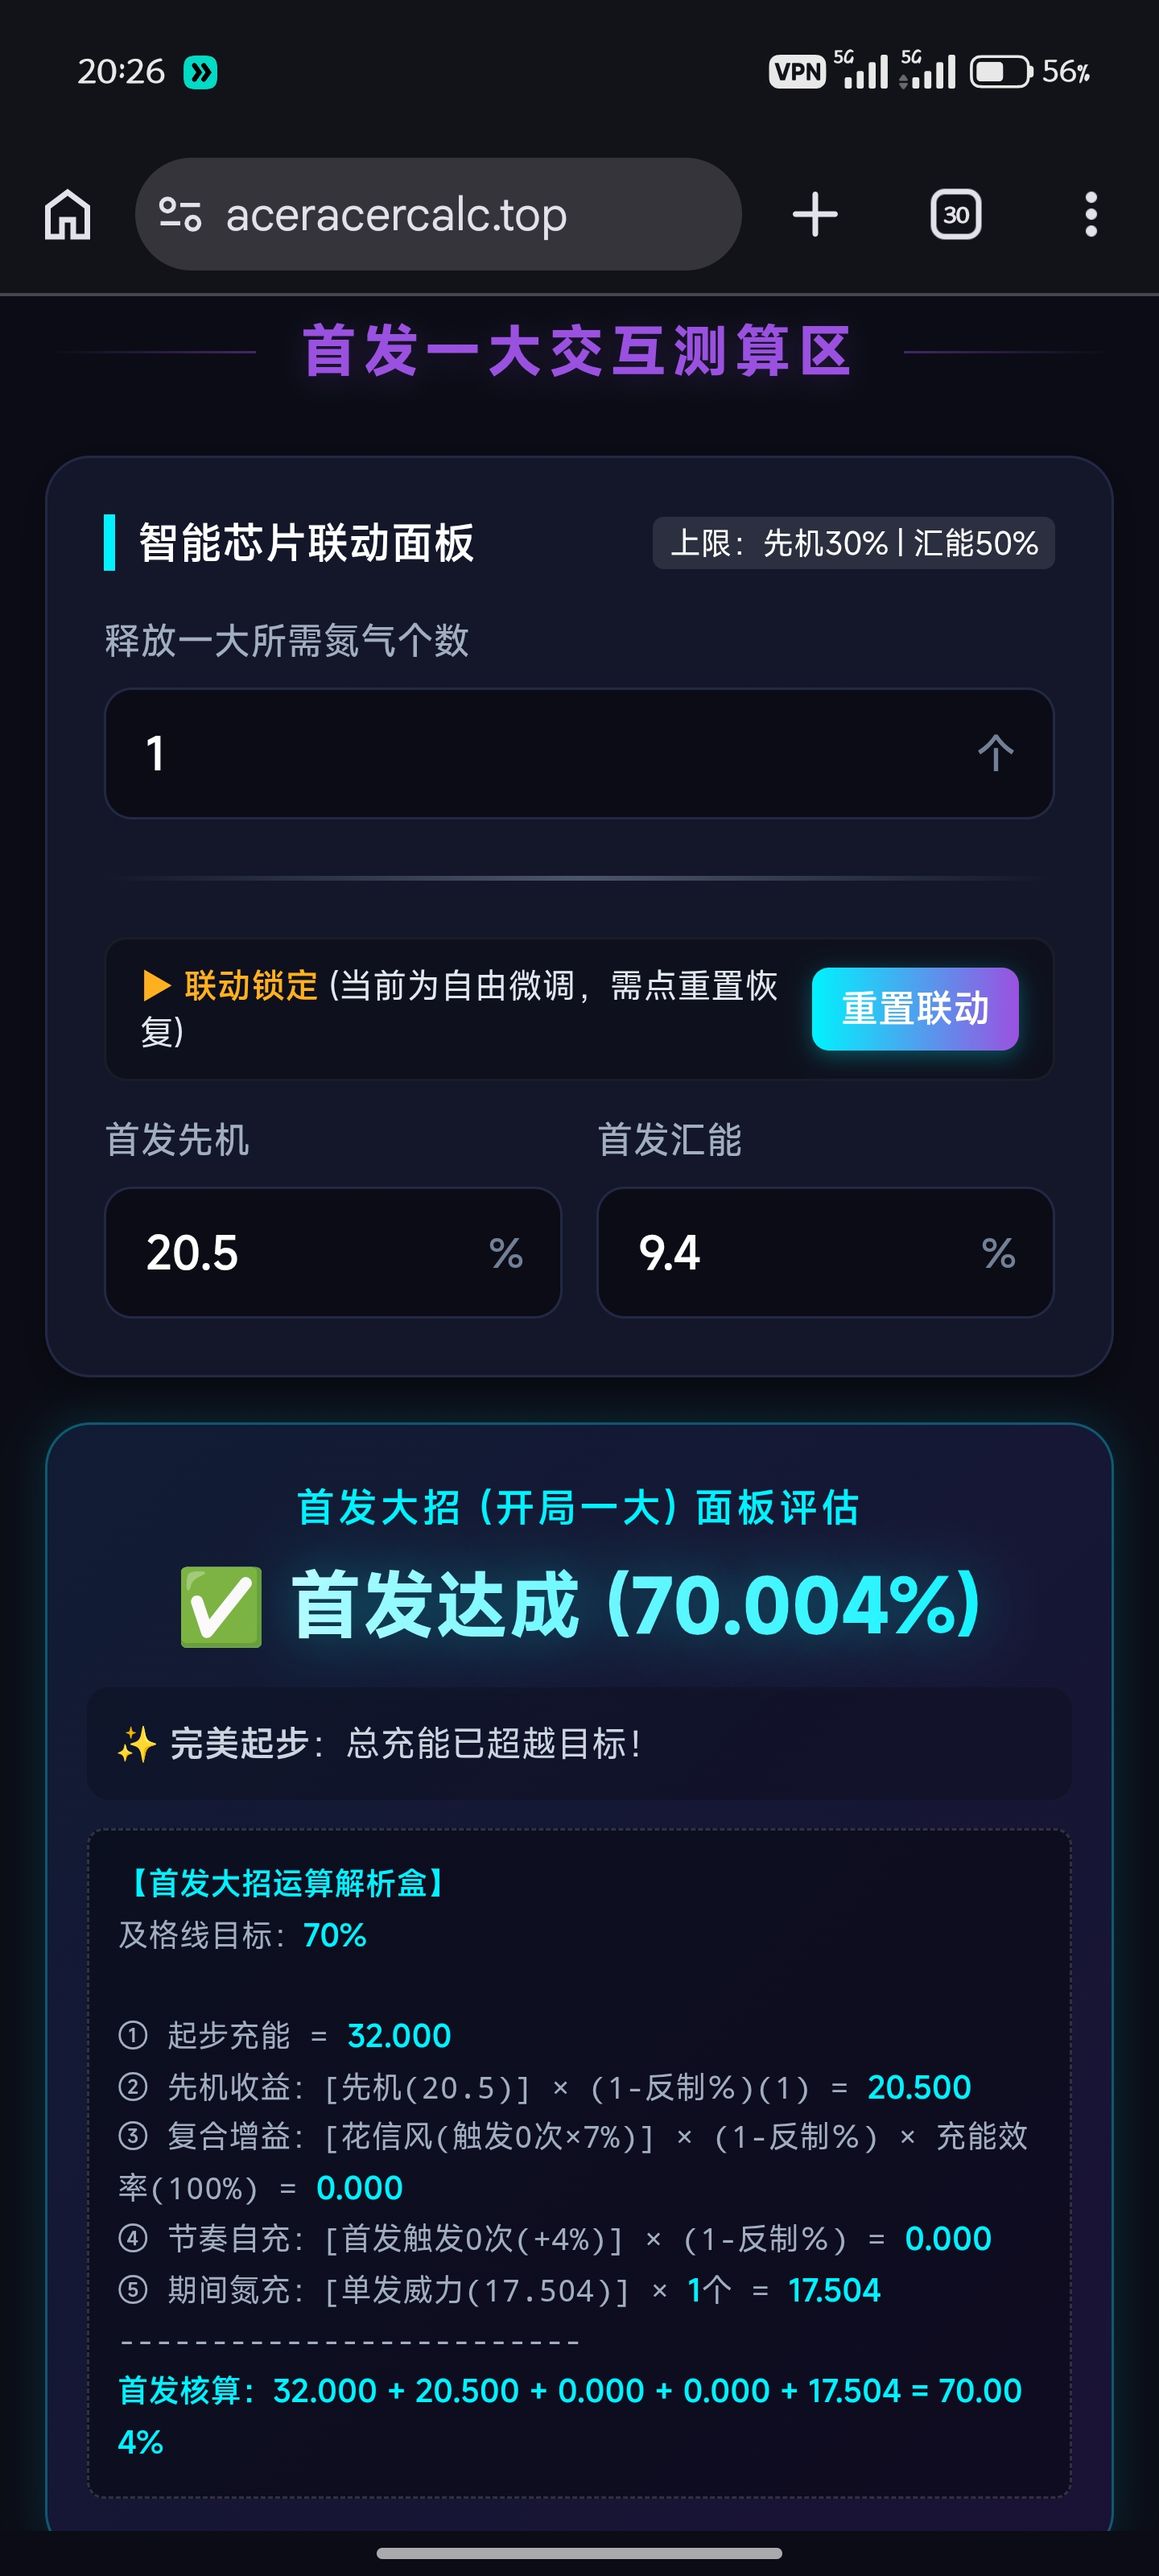
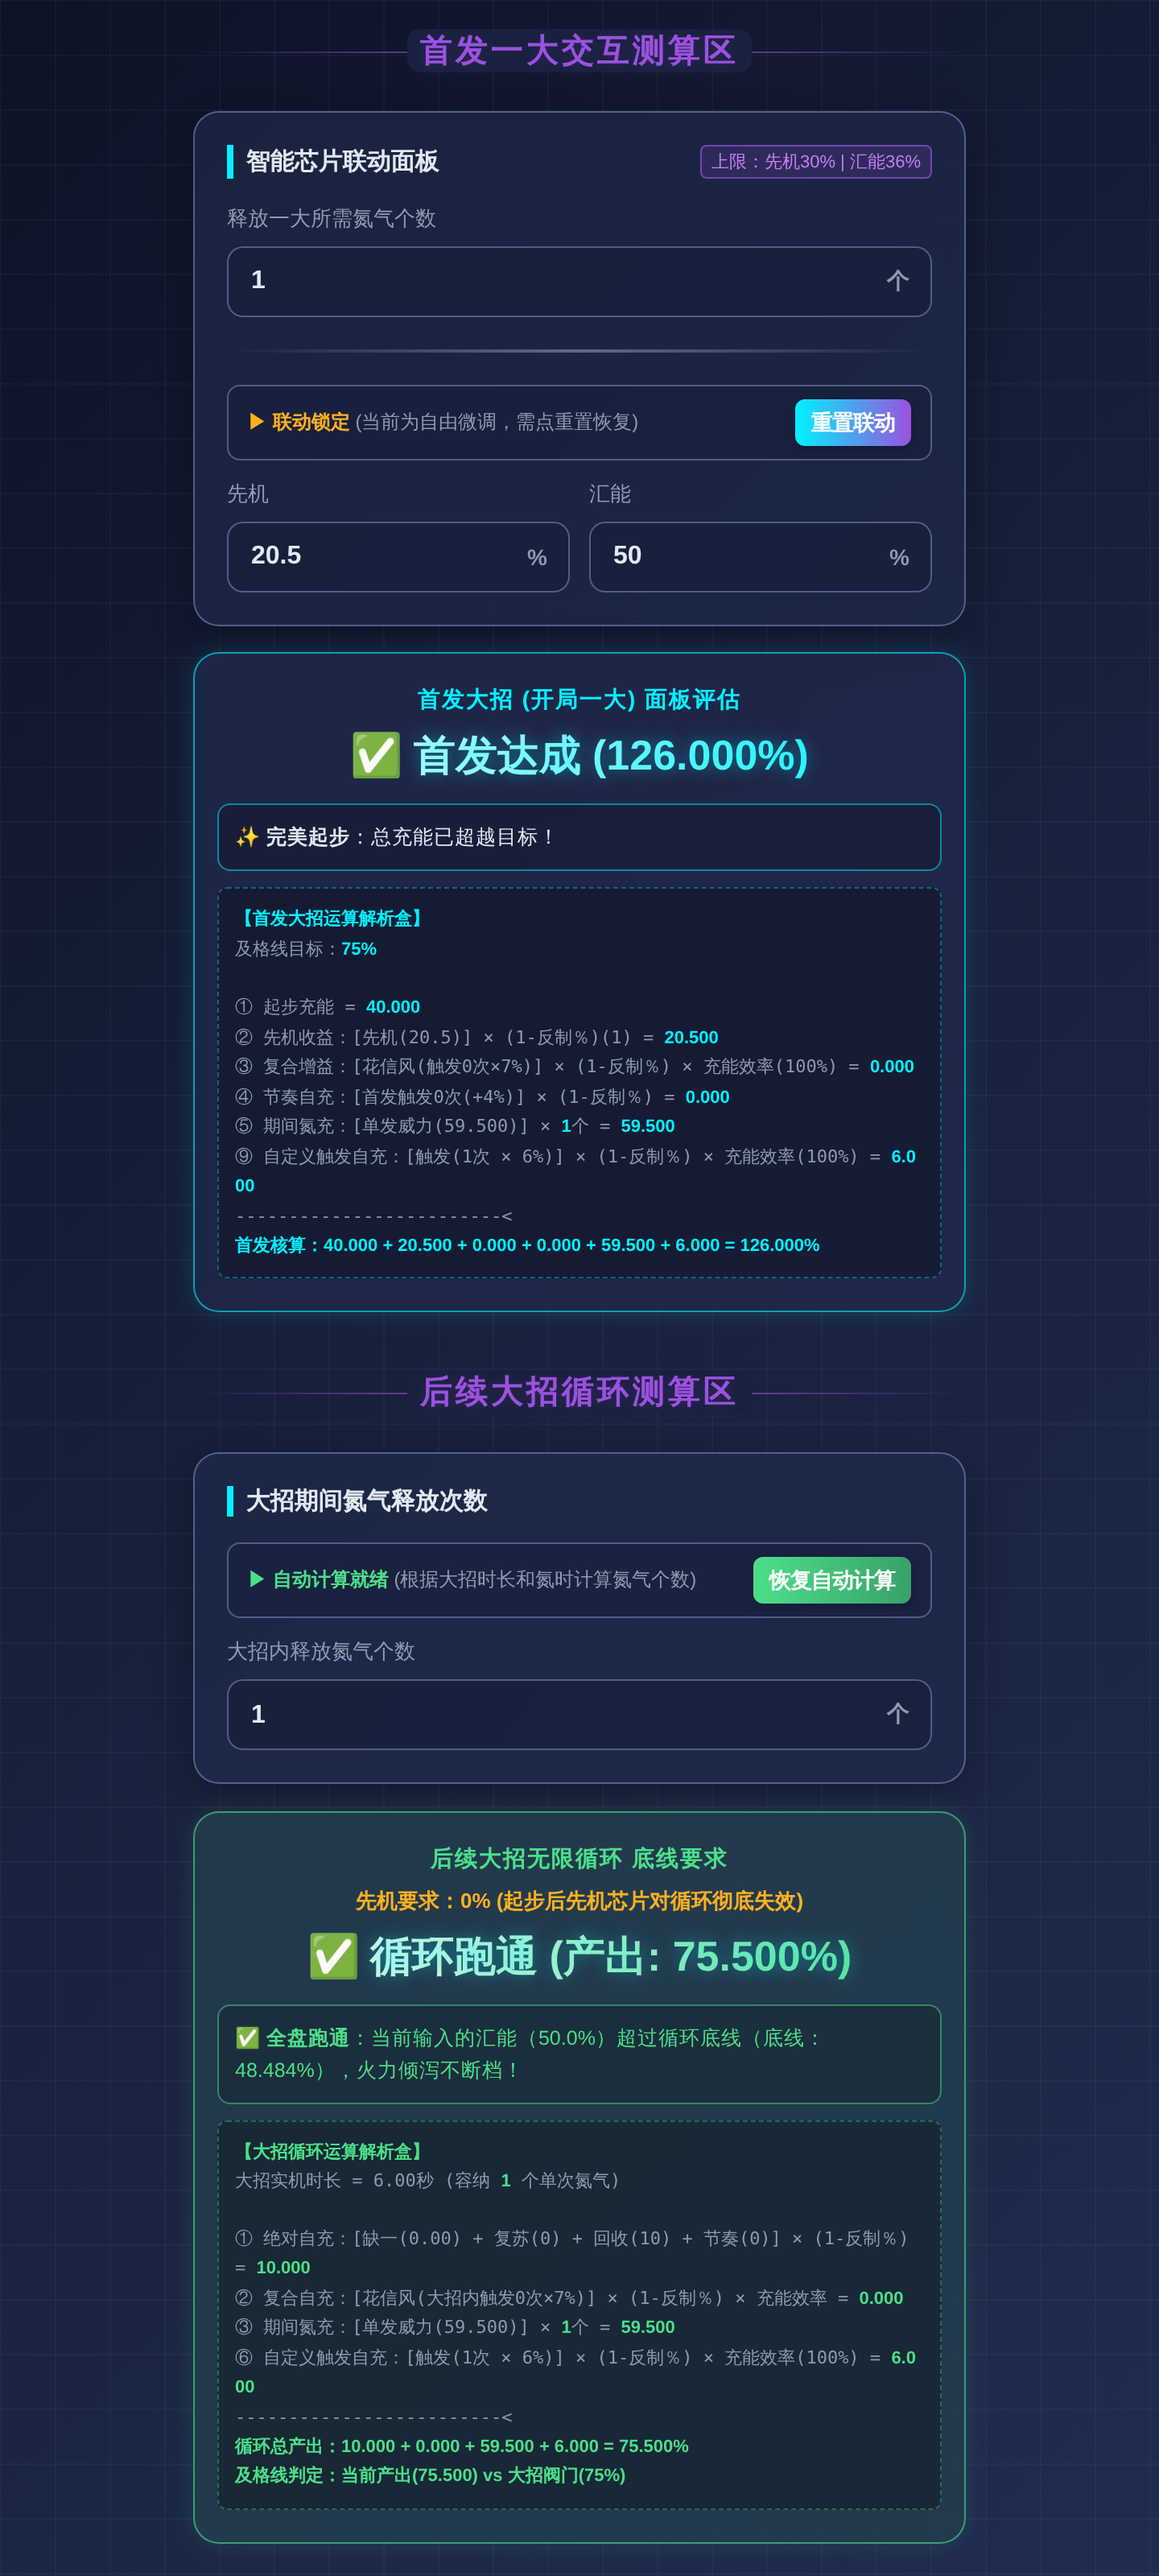
chore: 重新渲染 PWA 截图（新版界面 · 布加迪飞火流星演示状态），附截图脚本
- 6 张截图（桌面 2560×1516 / 移动 1440×3200）按新版界面重拍
- 结果区构图修正：芯片面板 + 首发/循环结果卡完整入画，不再截断
- 新增 scripts/render-screenshots.py（可重跑，支持 --url/--out）

diff --git a/scripts/render-screenshots.py b/scripts/render-screenshots.py
@@ -1,0 +1,184 @@
+#!/usr/bin/env python3
+# -*- coding: utf-8 -*-
+"""重新渲染 PWA 截图（manifest.json / sw.js 引用的那 6 张）。
+
+用法：
+    python3 scripts/render-screenshots.py                 # 默认截线上 https://aceracercalc.top/
+    python3 scripts/render-screenshots.py --url <地址>     # 换地址（如本地 index.html 的 file:// 或 http 服务）
+    python3 scripts/render-screenshots.py --out <目录>     # 换输出目录（默认项目根目录）
+
+输出（与 manifest.json 中的 sizes 声明一致）：
+    screenshot-desktop-1.png ~ 3.png   2560×1516（1280×758 视口 @2x）
+    screenshot-mobile-1.png  ~ 3.png   1440×3200（720×1600 视口 @2x）
+
+截图状态：布加迪 Bolide（飞火流星）· 对手反制 0% · 先机 20.5 / 汇能 50
+          · 释放一大所需氮气 1 个 · 勾选「能源回收」赋能 → 首发✅ 循环✅
+
+依赖：python3 + playwright（chromium）
+"""
+import argparse
+import os
+import sys
+
+from playwright.sync_api import sync_playwright
+
+DEFAULT_URL = "https://aceracercalc.top/"
+CAR_NAME = "布加迪 Bolide"
+
+# 把页面调成「双轨达成」的展示状态
+SETUP_JS = """() => {
+  function setVal(id, v) {
+    const el = document.getElementById(id);
+    const setter = Object.getOwnPropertyDescriptor(el.constructor.prototype, 'value').set;
+    setter.call(el, String(v));
+    el.dispatchEvent(new Event('input', {bubbles: true}));
+  }
+  function check(id, on) {
+    const el = document.getElementById(id);
+    if (el && el.checked !== on) { el.checked = on; el.dispatchEvent(new Event('change', {bubbles: true})); }
+  }
+  const cr = document.getElementById('counterRange');
+  if (cr) { cr.value = '0'; if (window.updateCounterSlider) updateCounterSlider(); }
+  setVal('inputXianji', 20.5);
+  setVal('inputHuineng', 50);
+  setVal('inputFirstNitroCount', 1);
+  check('chk_huishou', true);          // 能源回收（仅循环生效 +10%）
+  if (window.calculate) calculate();
+  return true;
+}"""
+
+# 截图前清掉环境噪音：性能提示 toast / performance-mode class
+CLEAN_JS = """() => {
+  document.body.classList.remove('performance-mode');
+  const t = document.getElementById('copyToast');
+  if (t) t.className = 'copy-toast';
+}"""
+
+# 各区块的定位锚点（文字 → CSS 类名过滤）
+POS_JS = """(marks) => {
+  const out = {};
+  for (const m of marks) {
+    const els = [...document.querySelectorAll('div,span,h2,h3')].filter(e =>
+      (e.textContent || '').includes(m) && (e.className || '').toString().match(/divider|card-title|result-title/));
+    out[m] = els.length ? Math.round(els[0].getBoundingClientRect().top + window.scrollY) : null;
+  }
+  out['__scrollH'] = document.body.scrollHeight;
+  return out;
+}"""
+
+# 结果卡的几何信息（用于把「计算结果」完整框进画面、不被截断）
+CARDS_JS = """() => {
+  const g = id => { const e = document.getElementById(id); if (!e) return null;
+    const r = e.getBoundingClientRect();
+    return {top: Math.round(r.top + window.scrollY), bot: Math.round(r.bottom + window.scrollY)}; };
+  const byTitle = t => { const e = [...document.querySelectorAll('.card-title')].find(x => x.textContent.includes(t));
+    if (!e) return null; const r = e.closest('.card').getBoundingClientRect();
+    return {top: Math.round(r.top + window.scrollY), bot: Math.round(r.bottom + window.scrollY)}; };
+  return { first: g('resultCardFirst'), loop: g('resultCardLoop'),
+           chip: byTitle('智能芯片'), nitro: byTitle('大招期间氮气'),
+           vh: window.innerHeight, scrollH: document.body.scrollHeight };
+}"""
+
+
+def framed_y(cards, keys, vh, scroll_h, margin=20):
+    """把 cards[keys] 的并集区间尽量完整地框进视口。
+    策略：优先底部对齐（上方少留白）；若区间比视口还高则居中。顶部永不被切。"""
+    tops, bots = [], []
+    for k in keys:
+        c = cards.get(k)
+        if c:
+            tops.append(c["top"]); bots.append(c["bot"])
+    if not tops:
+        return None
+    top, bot = min(tops), max(bots)
+    h = bot - top
+    if h > vh - 2 * margin:
+        y = round(top - max(0, (vh - h) / 2))
+    else:
+        y = min(bot + margin - vh, top - margin)   # 底部对齐，且顶部留 margin
+    return int(max(0, min(y, scroll_h - vh)))
+
+
+def prepare(pg, url):
+    """打开页面 → 关教程 → 选车 → 填参数 → 勾赋能。"""
+    pg.goto(url, wait_until="networkidle", timeout=90000)
+    pg.wait_for_timeout(2800)
+    try:
+        pg.click("#closeTutorialBtn", timeout=2500)
+        pg.wait_for_timeout(400)
+    except Exception:
+        pass
+    pg.click("#carListBtn")
+    pg.wait_for_timeout(900)
+    pg.click(f"text={CAR_NAME}", timeout=8000)
+    pg.wait_for_timeout(1800)
+    pg.evaluate(SETUP_JS)
+    pg.wait_for_timeout(1000)
+
+
+def shoot(pg, y, path):
+    """滚到 y 并截图，截图前清环境噪音。"""
+    pg.evaluate(CLEAN_JS)
+    pg.evaluate(f"window.scrollTo(0, {int(y)})")
+    pg.wait_for_timeout(700)
+    pg.evaluate(CLEAN_JS)
+    pg.screenshot(path=path)
+    print(f"  写出 {path}  (y={int(y)})")
+
+
+def main():
+    ap = argparse.ArgumentParser()
+    ap.add_argument("--url", default=DEFAULT_URL)
+    ap.add_argument("--out", default=os.path.dirname(os.path.dirname(os.path.abspath(__file__))))
+    a = ap.parse_args()
+    out = a.out
+    os.makedirs(out, exist_ok=True)
+
+    with sync_playwright() as p:
+        b = p.chromium.launch()
+
+        # ── 桌面 2560×1516 ────────────────────────────────────────────
+        ctx = b.new_context(viewport={"width": 1280, "height": 758}, device_scale_factor=2,
+                            locale="zh-CN")
+        pg = ctx.new_page()
+        prepare(pg, a.url)
+        pos = pg.evaluate(POS_JS, ["基础属性及赋能调整区"])
+        cards = pg.evaluate(CARDS_JS)
+        print("桌面锚点:", pos, "| 卡片:", cards)
+        # 1 顶部：标题 + 选车 + 车辆信息
+        shoot(pg, 0, f"{out}/screenshot-desktop-1.png")
+        # 2 参数区：左列核心参数/氮气规格 + 右列七大赋能矩阵
+        shoot(pg, max(0, (pos["基础属性及赋能调整区"] or 700) - 60), f"{out}/screenshot-desktop-2.png")
+        # 3 结果区：芯片面板 + 首发/循环两张结果卡完整入画
+        y3 = framed_y(cards, ["chip", "nitro", "first", "loop"], cards["vh"], cards["scrollH"])
+        if y3 is None:
+            y3 = max(0, 2000)
+        shoot(pg, y3, f"{out}/screenshot-desktop-3.png")
+        ctx.close()
+
+        # ── 移动 1440×3200 ────────────────────────────────────────────
+        ctx2 = b.new_context(viewport={"width": 720, "height": 1600}, device_scale_factor=2,
+                             locale="zh-CN", is_mobile=True, has_touch=True)
+        pg2 = ctx2.new_page()
+        prepare(pg2, a.url)
+        cards2 = pg2.evaluate(CARDS_JS)
+        print("移动卡片:", cards2)
+        # 1 顶部
+        shoot(pg2, 0, f"{out}/screenshot-mobile-1.png")
+        # 2 结果区：芯片面板 + 首发/循环两张结果卡完整入画
+        y2 = framed_y(cards2, ["chip", "nitro", "first", "loop"], cards2["vh"], cards2["scrollH"])
+        if y2 is None:
+            y2 = 3520
+        shoot(pg2, y2, f"{out}/screenshot-mobile-2.png")
+        # 3 循环评估区：氮气次数卡完整露出 + 循环结果卡 + 分享区
+        y3m = max(0, (cards2["nitro"]["top"] if cards2.get("nitro") else 4400) - 25)
+        shoot(pg2, y3m, f"{out}/screenshot-mobile-3.png")
+        ctx2.close()
+        b.close()
+
+    print("完成。")
+    return 0
+
+
+if __name__ == "__main__":
+    sys.exit(main())
